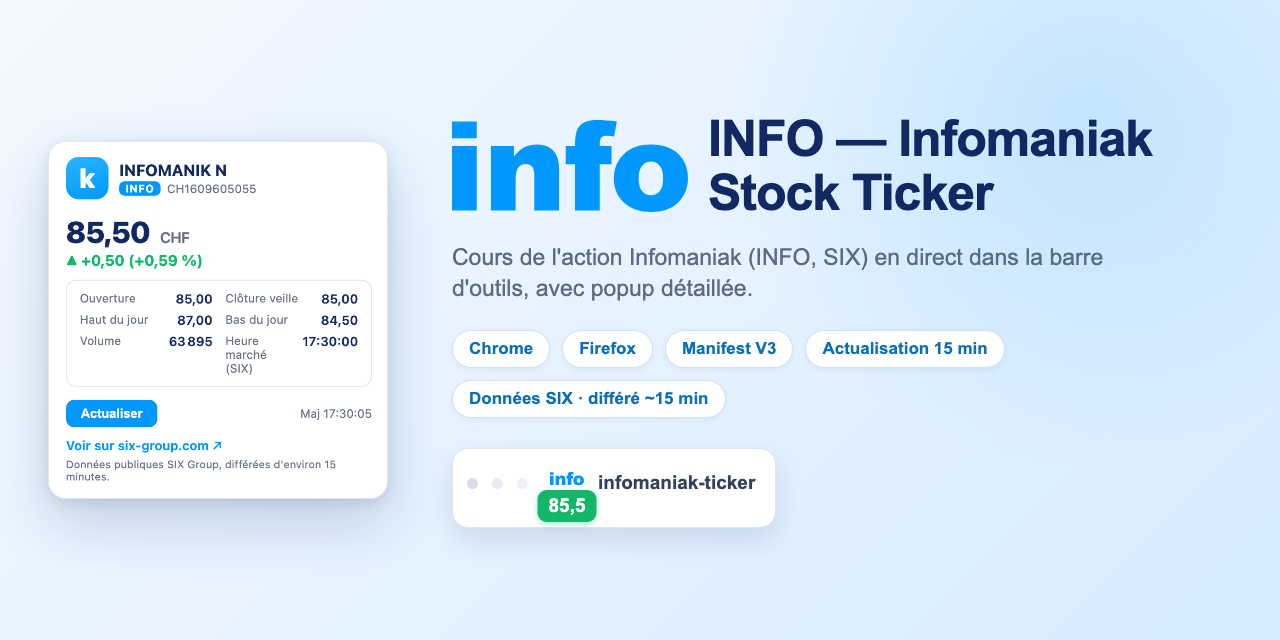
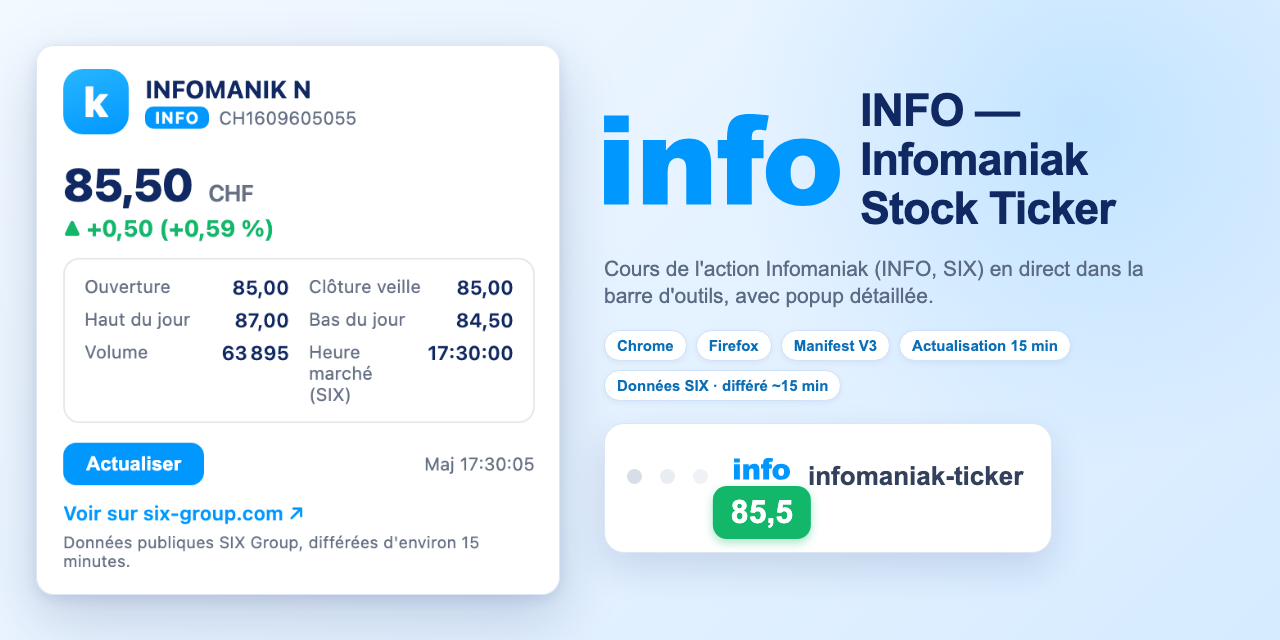
Carte sociale officielle : v3 (popup et icône grandes)

Changed region(s): [[0.0312, 0.0938, 0.9062, 0.9688]]

diff --git a/README.md b/README.md
@@ -7,7 +7,7 @@ Extension navigateur (Chrome + Firefox, Manifest V3) qui affiche en permanence l
 - **Actualisation** : toutes les **15 minutes** via `chrome.alarms` (au rythme du différé SIX)
 - **Données** : API publiques SIX (`fqs/movie.json` + `share_details`), sans clé — cours **différés d'environ 15 minutes**
 
-![INFO — Infomaniak Stock Ticker](docs/social-preview.png)
+![INFO — Infomaniak Stock Ticker](docs/social-preview-v3.png)
 
 ## Installation
 
